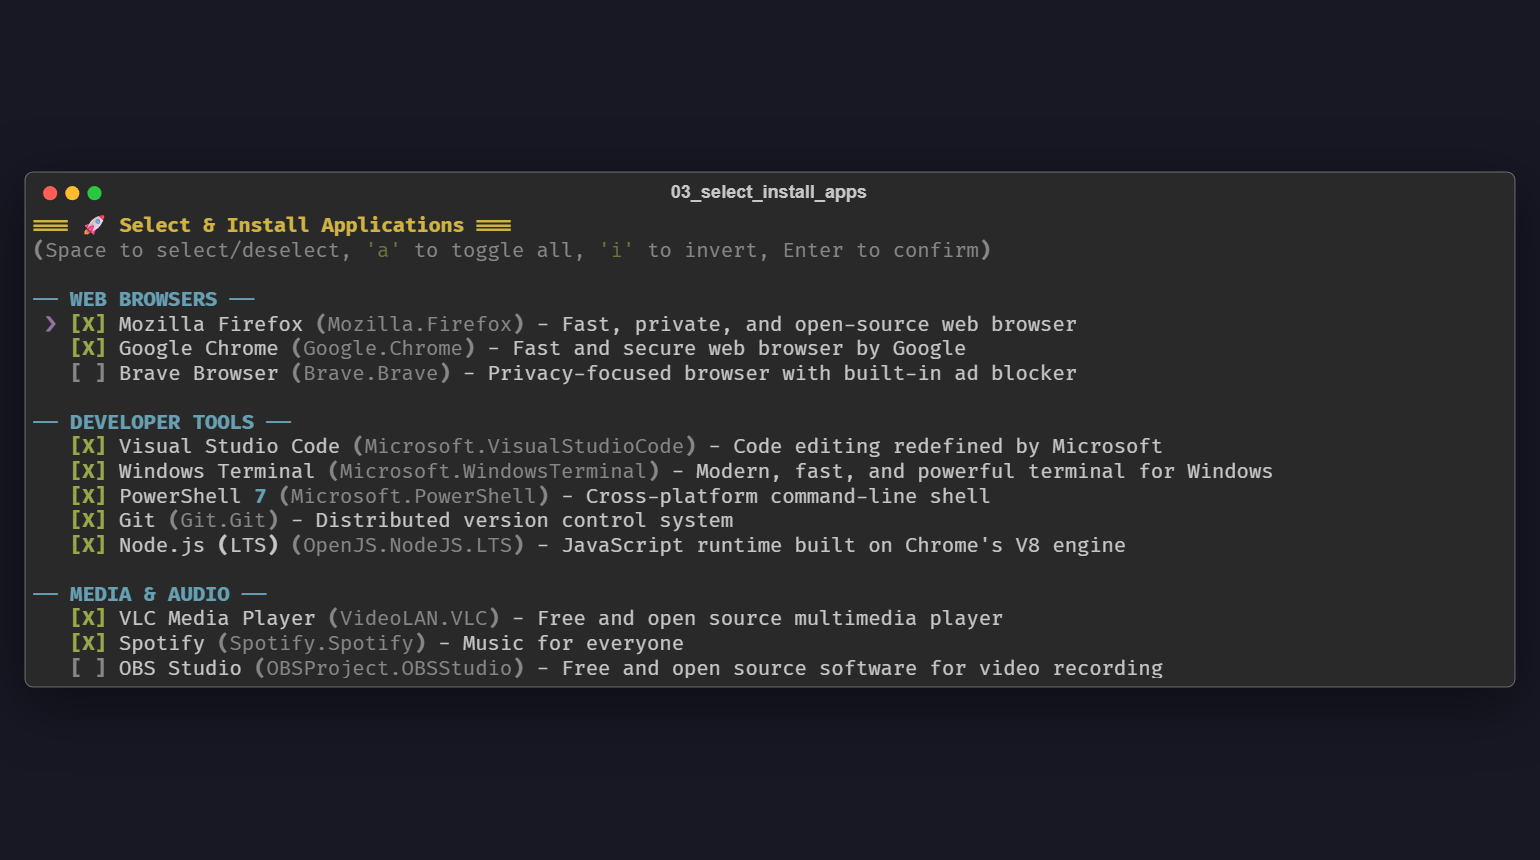
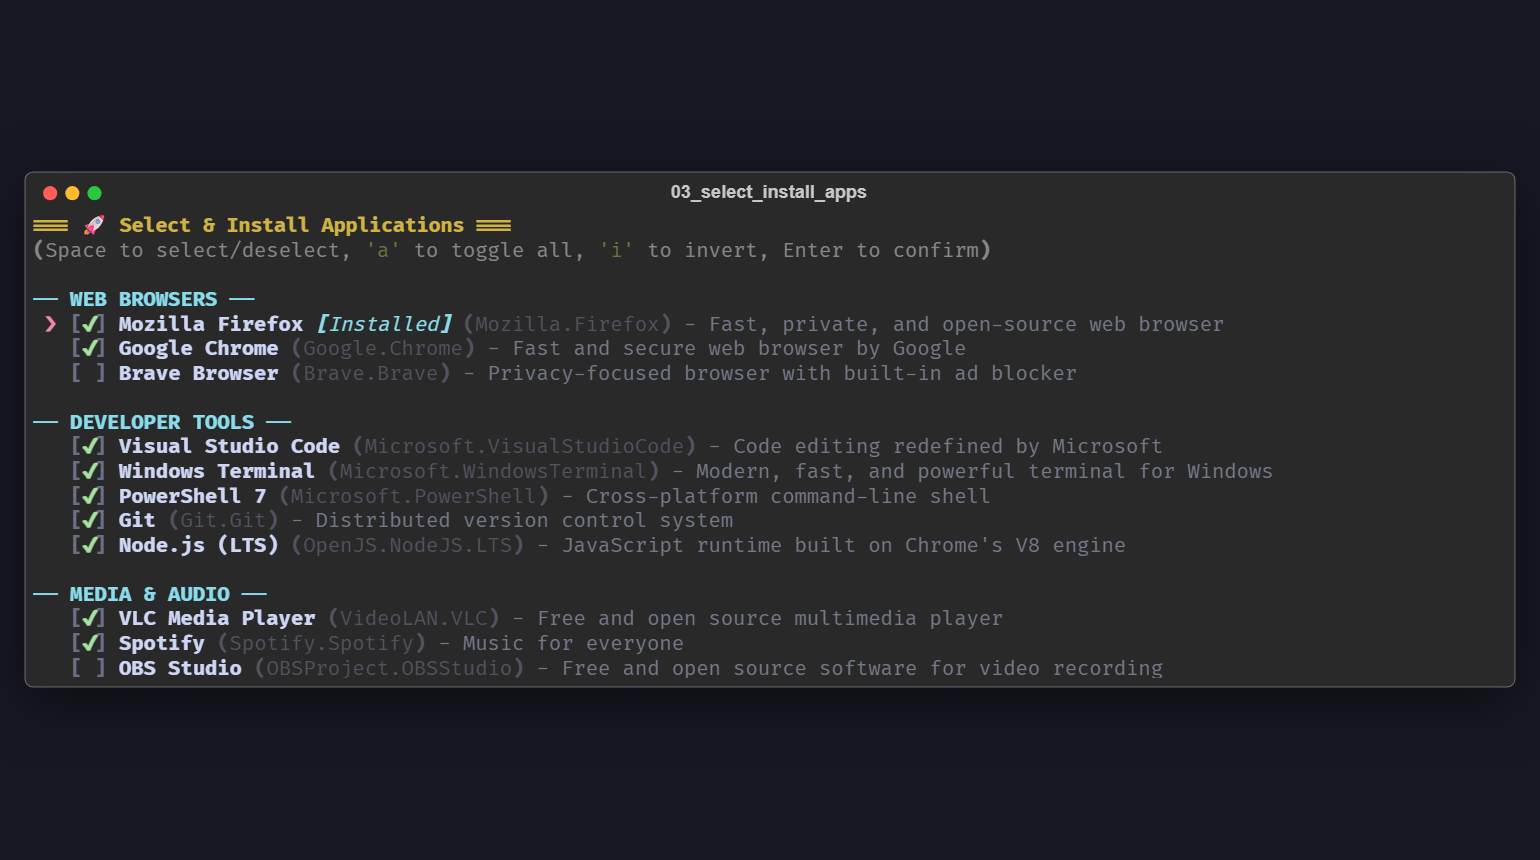
feat(tui): replace full-line highlight with true [✔]/[ ] checkbox indicators and green checkmark

Changed region(s): [[0.0312, 0.4837, 0.8416, 0.786], [0.0312, 0.3326, 0.7792, 0.4535], [0.6857, 0.6047, 0.7169, 0.6651]]

diff --git a/generate_feature_svgs.py b/generate_feature_svgs.py
@@ -108,20 +108,20 @@ def draw_main_menu_screen(c: Console):
 def draw_app_select_screen(c: Console):
     c.print("[bold yellow]=== 🚀 Select & Install Applications ===[/bold yellow]")
     c.print("[dim](Space to select/deselect, 'a' to toggle all, 'i' to invert, Enter to confirm)[/dim]\n")
-    c.print("[bold cyan]── WEB BROWSERS ──[/bold cyan]")
-    c.print(" [bold magenta]❯[/bold magenta] [bold green][X][/bold green] Mozilla Firefox [dim](Mozilla.Firefox)[/dim] - Fast, private, and open-source web browser")
-    c.print("   [bold green][X][/bold green] Google Chrome [dim](Google.Chrome)[/dim] - Fast and secure web browser by Google")
-    c.print("   [dim][ ][/dim] Brave Browser [dim](Brave.Brave)[/dim] - Privacy-focused browser with built-in ad blocker")
-    c.print("\n[bold cyan]── DEVELOPER TOOLS ──[/bold cyan]")
-    c.print("   [bold green][X][/bold green] Visual Studio Code [dim](Microsoft.VisualStudioCode)[/dim] - Code editing redefined by Microsoft")
-    c.print("   [bold green][X][/bold green] Windows Terminal [dim](Microsoft.WindowsTerminal)[/dim] - Modern, fast, and powerful terminal for Windows")
-    c.print("   [bold green][X][/bold green] PowerShell 7 [dim](Microsoft.PowerShell)[/dim] - Cross-platform command-line shell")
-    c.print("   [bold green][X][/bold green] Git [dim](Git.Git)[/dim] - Distributed version control system")
-    c.print("   [bold green][X][/bold green] Node.js (LTS) [dim](OpenJS.NodeJS.LTS)[/dim] - JavaScript runtime built on Chrome's V8 engine")
-    c.print("\n[bold cyan]── MEDIA & AUDIO ──[/bold cyan]")
-    c.print("   [bold green][X][/bold green] VLC Media Player [dim](VideoLAN.VLC)[/dim] - Free and open source multimedia player")
-    c.print("   [bold green][X][/bold green] Spotify [dim](Spotify.Spotify)[/dim] - Music for everyone")
-    c.print("   [dim][ ][/dim] OBS Studio [dim](OBSProject.OBSStudio)[/dim] - Free and open source software for video recording")
+    c.print("[bold #89dceb]── WEB BROWSERS ──[/bold #89dceb]")
+    c.print(" [bold #f38ba8]❯[/bold #f38ba8] [bold #6c7086][[/bold #6c7086][bold #a6e3a1]✔[/bold #a6e3a1][bold #6c7086]][/bold #6c7086] [bold #cdd6f4]Mozilla Firefox[/bold #cdd6f4] [italic #89dceb][Installed][/italic #89dceb] [dim #6c7086](Mozilla.Firefox)[/dim #6c7086] [dim #a6adc8]- Fast, private, and open-source web browser[/dim #a6adc8]")
+    c.print("   [bold #6c7086][[/bold #6c7086][bold #a6e3a1]✔[/bold #a6e3a1][bold #6c7086]][/bold #6c7086] [bold #cdd6f4]Google Chrome[/bold #cdd6f4] [dim #6c7086](Google.Chrome)[/dim #6c7086] [dim #a6adc8]- Fast and secure web browser by Google[/dim #a6adc8]")
+    c.print("   [bold #6c7086][ ][/bold #6c7086] [bold #cdd6f4]Brave Browser[/bold #cdd6f4] [dim #6c7086](Brave.Brave)[/dim #6c7086] [dim #a6adc8]- Privacy-focused browser with built-in ad blocker[/dim #a6adc8]")
+    c.print("\n[bold #89dceb]── DEVELOPER TOOLS ──[/bold #89dceb]")
+    c.print("   [bold #6c7086][[/bold #6c7086][bold #a6e3a1]✔[/bold #a6e3a1][bold #6c7086]][/bold #6c7086] [bold #cdd6f4]Visual Studio Code[/bold #cdd6f4] [dim #6c7086](Microsoft.VisualStudioCode)[/dim #6c7086] [dim #a6adc8]- Code editing redefined by Microsoft[/dim #a6adc8]")
+    c.print("   [bold #6c7086][[/bold #6c7086][bold #a6e3a1]✔[/bold #a6e3a1][bold #6c7086]][/bold #6c7086] [bold #cdd6f4]Windows Terminal[/bold #cdd6f4] [dim #6c7086](Microsoft.WindowsTerminal)[/dim #6c7086] [dim #a6adc8]- Modern, fast, and powerful terminal for Windows[/dim #a6adc8]")
+    c.print("   [bold #6c7086][[/bold #6c7086][bold #a6e3a1]✔[/bold #a6e3a1][bold #6c7086]][/bold #6c7086] [bold #cdd6f4]PowerShell 7[/bold #cdd6f4] [dim #6c7086](Microsoft.PowerShell)[/dim #6c7086] [dim #a6adc8]- Cross-platform command-line shell[/dim #a6adc8]")
+    c.print("   [bold #6c7086][[/bold #6c7086][bold #a6e3a1]✔[/bold #a6e3a1][bold #6c7086]][/bold #6c7086] [bold #cdd6f4]Git[/bold #cdd6f4] [dim #6c7086](Git.Git)[/dim #6c7086] [dim #a6adc8]- Distributed version control system[/dim #a6adc8]")
+    c.print("   [bold #6c7086][[/bold #6c7086][bold #a6e3a1]✔[/bold #a6e3a1][bold #6c7086]][/bold #6c7086] [bold #cdd6f4]Node.js (LTS)[/bold #cdd6f4] [dim #6c7086](OpenJS.NodeJS.LTS)[/dim #6c7086] [dim #a6adc8]- JavaScript runtime built on Chrome's V8 engine[/dim #a6adc8]")
+    c.print("\n[bold #89dceb]── MEDIA & AUDIO ──[/bold #89dceb]")
+    c.print("   [bold #6c7086][[/bold #6c7086][bold #a6e3a1]✔[/bold #a6e3a1][bold #6c7086]][/bold #6c7086] [bold #cdd6f4]VLC Media Player[/bold #cdd6f4] [dim #6c7086](VideoLAN.VLC)[/dim #6c7086] [dim #a6adc8]- Free and open source multimedia player[/dim #a6adc8]")
+    c.print("   [bold #6c7086][[/bold #6c7086][bold #a6e3a1]✔[/bold #a6e3a1][bold #6c7086]][/bold #6c7086] [bold #cdd6f4]Spotify[/bold #cdd6f4] [dim #6c7086](Spotify.Spotify)[/dim #6c7086] [dim #a6adc8]- Music for everyone[/dim #a6adc8]")
+    c.print("   [bold #6c7086][ ][/bold #6c7086] [bold #cdd6f4]OBS Studio[/bold #cdd6f4] [dim #6c7086](OBSProject.OBSStudio)[/dim #6c7086] [dim #a6adc8]- Free and open source software for video recording[/dim #a6adc8]")
 
 # 4. Persona Presets Screen
 def draw_presets_screen(c: Console):

diff --git a/installer.py b/installer.py
@@ -65,14 +65,95 @@ LOGS_DIR = os.path.join(BASE_DIR, "logs")
 
 _INSTALLED_CACHE: Optional[Set[str]] = None
 
+def patch_questionary_rendering():
+    """
+    Patch Questionary InquirerControl._get_choice_tokens to render clean
+    checkbox indicators [✔] / [ ] (or [X] / [ ]) instead of bullet points,
+    and prevent full-line highlighting when items are selected.
+    """
+    from questionary.prompts.common import InquirerControl
+
+    check_char = os.environ.get("WFS_CHECK_CHAR", "✔")
+
+    def custom_get_choice_tokens(self):
+        tokens = []
+
+        def append(index: int, choice: Choice):
+            selected = choice.value in self.selected_options
+
+            # Pointer navigation
+            pointer_sym = self.pointer if self.pointer is not None and self.pointer != "»" else "❯"
+            if index == self.pointed_at:
+                tokens.append(("class:pointer", f" {pointer_sym} "))
+                tokens.append(("[SetCursorPosition]", ""))
+            else:
+                pointer_length = len(pointer_sym)
+                tokens.append(("class:text", " " * (2 + pointer_length)))
+
+            if isinstance(choice, Separator):
+                tokens.append(("class:separator", f"{choice.title}"))
+            elif choice.disabled:
+                if isinstance(choice.title, list):
+                    tokens.append(("class:disabled", "- "))
+                    tokens.extend(choice.title)
+                else:
+                    tokens.append(("class:disabled", f"- {choice.title}"))
+                tokens.append(
+                    ("class:disabled", f"{'' if isinstance(choice.disabled, bool) else f' ({choice.disabled})'}")
+                )
+            else:
+                shortcut = choice.get_shortcut_title() if self.use_shortcuts else ""
+
+                if self.use_indicator:
+                    # True checkbox appearance: [✔] or [ ]
+                    tokens.append(("class:checkbox-bracket", "["))
+                    if selected:
+                        tokens.append(("class:checkbox-check", check_char))
+                    else:
+                        tokens.append(("class:checkbox-blank", " "))
+                    tokens.append(("class:checkbox-bracket", "] "))
+
+                # Choice title - preserve structured tokens without wrapping in class:selected
+                if isinstance(choice.title, list):
+                    tokens.extend(choice.title)
+                elif index == self.pointed_at:
+                    tokens.append(("class:highlighted", f"{shortcut}{choice.title}"))
+                else:
+                    tokens.append(("class:text", f"{shortcut}{choice.title}"))
+
+            tokens.append(("", "\n"))
+
+        for i, c in enumerate(self.filtered_choices):
+            append(i, c)
+
+        current = self.get_pointed_at()
+
+        if self.show_selected:
+            answer = current.get_shortcut_title() if self.use_shortcuts else ""
+            answer += current.title if isinstance(current.title, str) else current.title[0][1]
+            tokens.append(("class:text", f"  Answer: {answer}"))
+
+        show_description = self.show_description and current.description is not None
+        if show_description:
+            tokens.append(("class:text", f"  Description: {current.description}"))
+
+        if not (self.show_selected or show_description):
+            tokens.pop()
+
+        return tokens
+
+    InquirerControl._get_choice_tokens = custom_get_choice_tokens
+
+patch_questionary_rendering()
+
 # Custom styling for questionary (Clean, dev-ish Catppuccin-inspired palette)
 CUSTOM_STYLE = Style([
     ('qmark', 'fg:#89b4fa bold'),
     ('question', 'bold fg:#cdd6f4'),
     ('answer', 'fg:#89dceb bold'),
     ('pointer', 'fg:#f38ba8 bold'),             # Modern clean pointer '❯'
-    ('highlighted', 'noinherit'),                # Never highlight the line; focus stays on the checkmark
-    ('selected', 'fg:#a6e3a1 bold'),             # Crisp emerald checkmark
+    ('highlighted', 'bold fg:#cdd6f4'),          # Pointed choice text (no background highlight)
+    ('selected', 'fg:#a6e3a1 bold'),             # Crisp emerald green checkmark
     ('separator', 'fg:#89dceb bold italic'),     # Category header
     ('instruction', 'fg:#a6adc8 italic'),
     ('text', 'fg:#cdd6f4'),
@@ -80,7 +161,10 @@ CUSTOM_STYLE = Style([
     ('appname', 'fg:#cdd6f4 bold'),              # White/lavender crisp app title
     ('installedbadge', 'fg:#89dceb italic'),     # Cyan badge
     ('appid', 'fg:#6c7086'),                     # Muted gray ID
-    ('appdesc', 'fg:#a6adc8')                    # Legible secondary description
+    ('appdesc', 'fg:#a6adc8'),                   # Legible secondary description
+    ('checkbox-bracket', 'fg:#6c7086 bold'),     # Subtle bracket [ ]
+    ('checkbox-check', 'fg:#a6e3a1 bold'),       # Crisp emerald green checkmark/X
+    ('checkbox-blank', 'fg:#6c7086')             # Unchecked blank space
 ])
 
 def is_admin() -> bool:

diff --git a/test_installer.py b/test_installer.py
@@ -128,7 +128,14 @@ def test_choices_builder():
     sample_cat = categories[0]
     cat_choices = installer.build_choices(apps, filter_cat=sample_cat)
     assert len(cat_choices) > 0, f"No choices generated for category '{sample_cat}'"
-    print("  [OK] Choice generator and category filtering working as expected.")
+
+    # Verify custom checkbox tokens formatting [✔] / [ ] without line highlighting
+    from questionary.prompts.common import InquirerControl
+    ic = InquirerControl(choices=choices[:5], use_indicator=True)
+    tokens = ic._get_choice_tokens()
+    assert any(t[0] == "class:checkbox-bracket" and t[1] == "[" for t in tokens), "Checkbox bracket '[' missing"
+    assert any(t[0] == "class:checkbox-check" for t in tokens), "Checkbox checkmark missing"
+    print("  [OK] Choice generator, category filtering, and [✔]/[ ] checkbox tokens verified.")
 
 def test_winget_availability():
     print("\n[TEST 10] Testing Winget CLI accessibility...")
